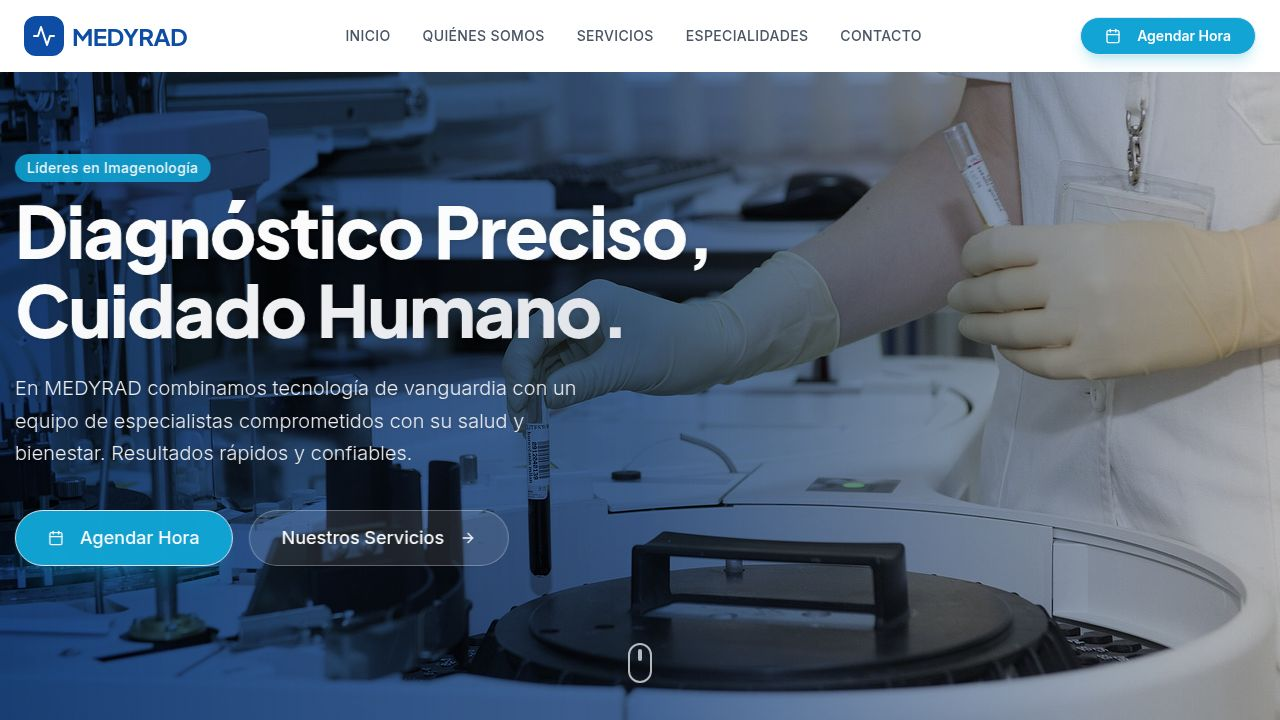
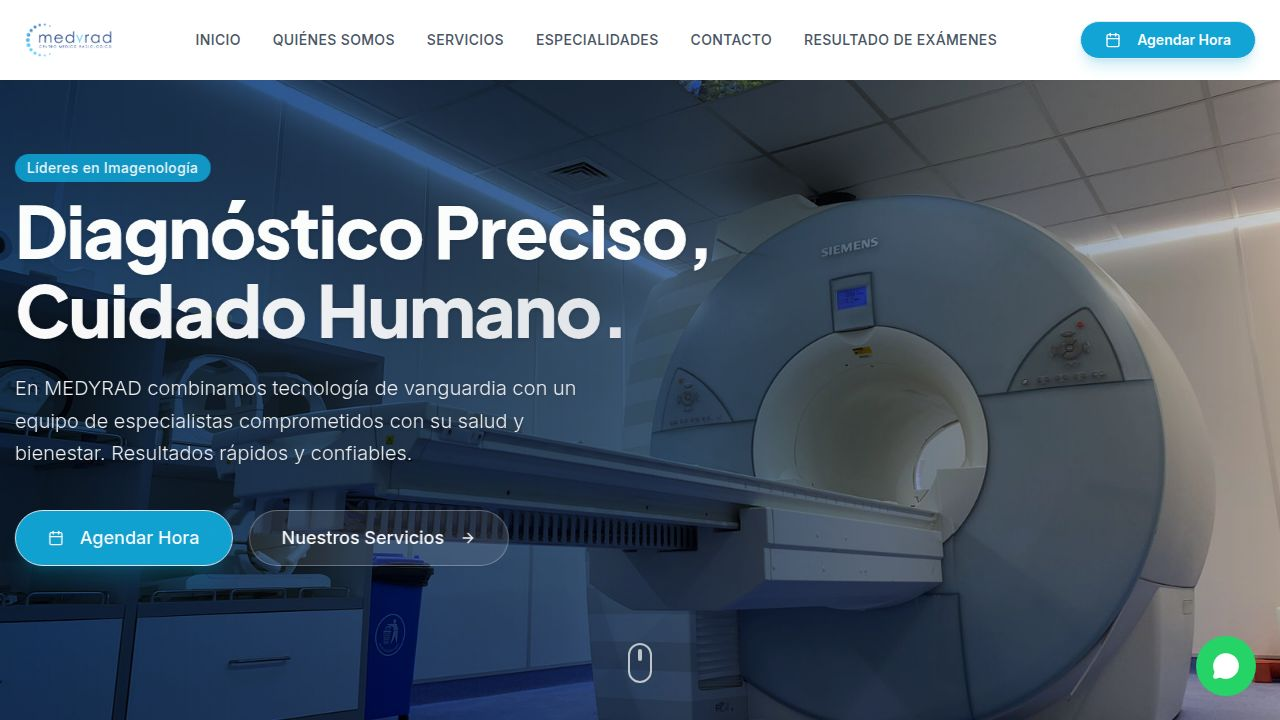
Add external link for exam results to website navigation
Update Navbar and Footer components to include a new menu item "Resultado de Exámenes" that links to an external URL.

Replit-Commit-Author: Agent
Replit-Commit-Session-Id: 63373e2b-6b8e-4db2-a1ee-14f812783dd6
Replit-Commit-Checkpoint-Type: full_checkpoint
Replit-Commit-Event-Id: ce1c3254-d1f0-41df-9632-e88a31efd57a
Replit-Commit-Screenshot-Url: https://storage.googleapis.com/screenshot-production-us-central1/faf50a49-8852-4778-91f6-63ca2a282e5d/63373e2b-6b8e-4db2-a1ee-14f812783dd6/ymmhwvj
Replit-Helium-Checkpoint-Created: true

diff --git a/client/src/components/layout/Navbar.tsx b/client/src/components/layout/Navbar.tsx
@@ -23,6 +23,7 @@ export function Navbar() {
     { name: "Servicios", href: "#servicios" },
     { name: "Especialidades", href: "#especialidades" },
     { name: "Contacto", href: "#contacto" },
+    { name: "Resultado de Exámenes", href: "https://medyrad.cui.date/intranet/login.php", external: true },
   ];
 
   const AGENDAMIENTO_URL = "https://wa.me/56952191118"; // WhatsApp Link
@@ -51,6 +52,8 @@ export function Navbar() {
               <a 
                 key={link.name} 
                 href={link.href}
+                target={link.external ? "_blank" : undefined}
+                rel={link.external ? "noopener noreferrer" : undefined}
                 className="text-sm font-medium text-gray-600 hover:text-primary transition-colors uppercase tracking-wide"
               >
                 {link.name}
@@ -88,6 +91,8 @@ export function Navbar() {
               <a 
                 key={link.name} 
                 href={link.href}
+                target={link.external ? "_blank" : undefined}
+                rel={link.external ? "noopener noreferrer" : undefined}
                 className="text-base font-medium text-gray-700 hover:text-primary py-2 border-b border-gray-50 last:border-0"
                 onClick={() => setIsOpen(false)}
               >

diff --git a/client/src/components/layout/Footer.tsx b/client/src/components/layout/Footer.tsx
@@ -29,7 +29,7 @@ export function Footer() {
               <li><a href="#inicio" className="text-gray-400 hover:text-secondary transition-colors">Inicio</a></li>
               <li><a href="#quienes-somos" className="text-gray-400 hover:text-secondary transition-colors">Quiénes Somos</a></li>
               <li><a href="#servicios" className="text-gray-400 hover:text-secondary transition-colors">Servicios</a></li>
-              <li><a href="#especialidades" className="text-gray-400 hover:text-secondary transition-colors">Especialidades</a></li>
+              <li><a href="https://medyrad.cui.date/intranet/login.php" target="_blank" rel="noopener noreferrer" className="text-gray-400 hover:text-secondary transition-colors font-semibold">Resultado de Exámenes</a></li>
               <li><a href="#contacto" className="text-gray-400 hover:text-secondary transition-colors">Contacto</a></li>
             </ul>
           </div>
